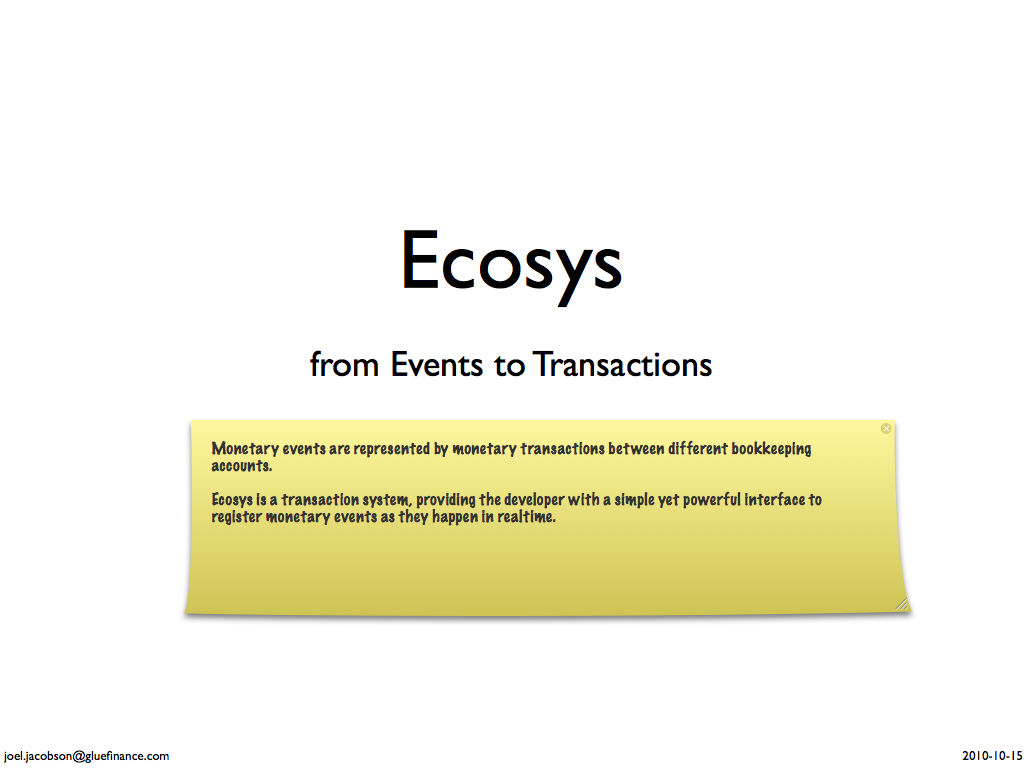
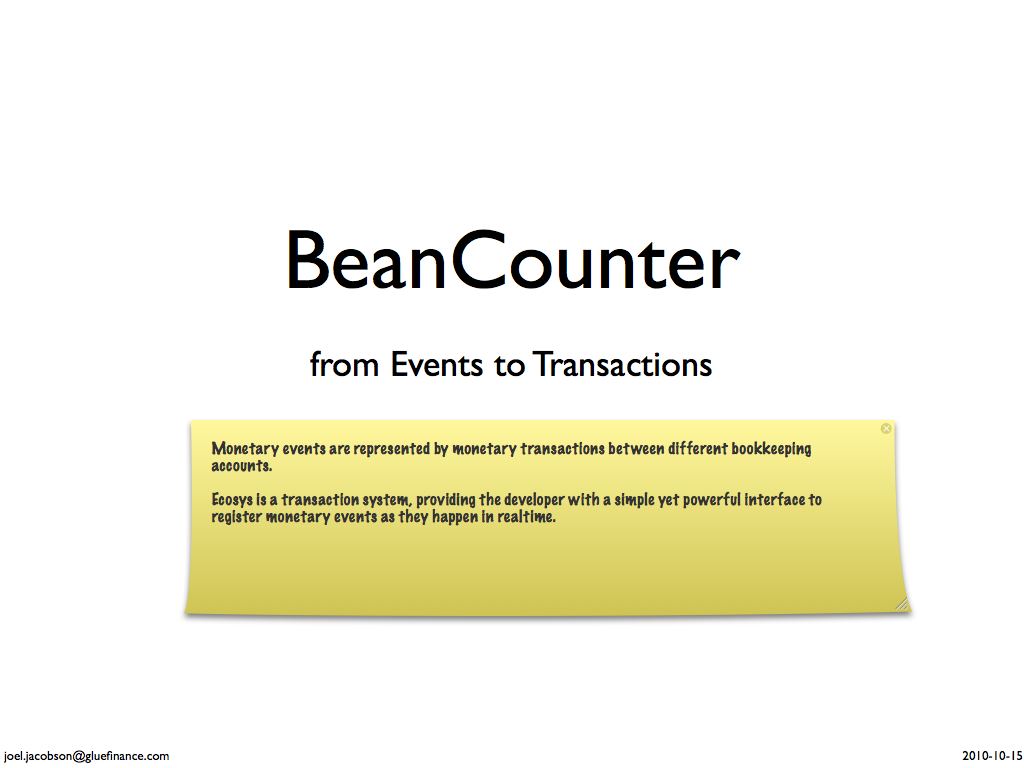
first commit

Changed region(s): [[0.2812, 0.2812, 0.7188, 0.4062]]

diff --git a/introduction.html b/introduction.html
@@ -2,7 +2,7 @@
 <!DOCTYPE html PUBLIC "-//W3C//DTD XHTML 1.0 Transitional//EN" "http://www.w3.org/TR/xhtml1/DTD/xhtml1-transitional.dtd">
 <html>
 <head>
-    <meta name="description" content="joel.jacobson@gluefinance.com 2010-10-15 Ecosys from Events to Transactions  Monetary events are represented by monetary transactions between different bookkeeping accounts.  Ecosys is a transaction system, providing the developer with a simple yet powerful interface to register monetary events as they happen in realtime. joel.jacobson@gluefinance.com 2010-10-15 Bookkeeping is a law requirement for all companies, except for some dodgy countries where it is optional. joel.jacobson@gluefinance.com 2010-10-15 Companies CompanyID (PK)	Name 1	Glue Finance AB Ecosys can handle multiple companies within the same database. joel.jacobson@gluefinance.com 2010-10-15 Ecosys support monetary events in all currencies. joel.jacobson@gluefinance.com 2010-10-15 Currencies CurrencyID (PK)	Currency	Description 1	SEK	Swedish Krona 2	EUR	Euro 3	DKK	Danish Krone 4	NOK	Norwegian Krone 5	ZMK	Zambian Kwacha ......	.....	.... ISO 4217 currency codes are used joel.jacobson@gluefinance.com 2010-10-15 Bookkeeping transactions are made between different “bookkeeping accounts”.  A “bookkeeping account” is something entirely different than a “user account”.  For instance, every “bank account” has its own bookkeeping account. joel.jacobson@gluefinance.com 2010-10-15 Accounts AccountID (PK)	AccountNumber	Name	Description	ModificationDate	CompanyID (FK) 1	1941	BANK_ACCOUNT_1	Bank account	2008-06-15 14:40:30	1 2	1942	BANK_ACCOUNT_2	Bank account	2008-06-15 14:40:30	1 3	1943	BANK_ACCOUNT_3	Bank account	2008-06-14 14:40:30	1 4	2420	CLIENT_BALANCES	Debt to clients	2008-06-14 14:40:30	1 5	3001	DEPOSIT_FEES	Financial revenue	2008-06-14 14:40:30	1 6	3002	WITHDRAWAL_FEES	Financial revenue	2008-06-15 14:40:30	1 7	1901	SUSPENSE_ACCOUNT_BANK_ACCOUNT_1	Suspense account	2008-06-15 14:40:30	1 8	1902	SUSPENSE_ACCOUNT_BANK_ACCOUNT_2	Suspense account	2008-06-15 14:40:30	1 9	1903	SUSPENSE_ACCOUNT_BANK_ACCOUNT_3	Suspense account	2008-06-15 14:40:30	1 Name is the unique name of the bookkeeping account.  AccountNumber is unique and is most commonly a four digit number. Glue Finance is using six digit numbers because we have so many bank accounts.  Transactions can only be made between the accounts defined. To simplify for auditors and people working with bookkeeping, the account numbers used for different purposes follows different standards.  In Sweden, EU-BAS2000 is the most recent standard (“kontoplan” in Swedish).  These standards only provide guidance. If the type of account you need doesn’t exists or if you for any other reason want to use a different account number, you are allowed to do so.   joel.jacobson@gluefinance.com 2010-10-15 AccountBalances contain the current balance for each account in each currency.  If there hasn’t been any transactions in a given currency for an account, there is no record of a balance in AccountBalances. A balance record is insert upon the first transaction in a currency using an account, and then updated.  joel.jacobson@gluefinance.com 2010-10-15 AccountBalances AccountBalanceID (PK)	AccountID (FK)	Currency (FK)	Balance	Num	NumDebit	NumCredit	SumDebit	SumCredit 1	1	SEK	1000	1	1	0	1000	0 2	2	SEK	2000	4	3	1	3500	1500 3	3	EUR	500	1	1	0	500	0 4	4	SEK	-2970	9	5	4	1530	4500 5	4	EUR	-490	2	1	1	10	500 6	5	SEK	-10	4	0	4	0	10 7	5	EUR	-10	1	0	1	0	10 8	6	SEK	-20	1	0	1	0	20 9	7	SEK	0	2	1	1	1000	1000 10	8	SEK	0	8	4	4	5000	5000 11	9	EUR	0	2	1	1	500	500 Balance and Currency is the current balance.  Num is the total number of transactions to/from the account in the currency. NumCredit / NumDebit is the total number of transactions to/from the account in the currency. SumCredit / SumDebit is the sum of transactions.  Credit = from = minus(-) = decrease account balance in the currency Debit = to = plus(+) = increase account balance in the currency  joel.jacobson@gluefinance.com 2010-10-15 Annoying facts debit/credit vs +/- Bean counter language	Actual meaning	Debit / Credit	+ / - “Assets are increased with debits and decreased with credits”	When you put money into a bank account, it is a debit	Debit	+ credit |ˈkredit| verb ( credited , crediting ) [ trans. ] (often be credited)  2 add (an amount of money) to an account : this deferred tax can be credited to the profit and loss account. 	Add = +, right? No, “add” of course means “-” 	Credit	- joel.jacobson@gluefinance.com 2010-10-15 Monetary events are of different types.  Most likely, you will have a limited number of different types of monetary events.  Some of the event types will occur very frequently, like hundreds per second, while others will be very uncommon, like the receiption of an invoice from a supplier. joel.jacobson@gluefinance.com 2010-10-15 EventTypes EventTypeID (PK)	Datestamp 1	2008-06-15 14:40:30 2	2008-06-15 14:40:30 A new EventType is automatically created when a new event with a different mix of “flag keys” are seen for the first time.  Two events might have different “flag values”, but as long as they have the same number of flags with the same names, the EventType is the same.  The “flag keys” determine the EventType, independent of the flag values.  More on flags later on... joel.jacobson@gluefinance.com 2010-10-15 New monetary events are inserted into the Events table.  Events have an amount, currency, different kind of timestamps and a plain hash, where the key/values contain the information needed to what monetary transactions to perform.  The keys of the hash are called Flags. The unique set of Flags determine the EventType.  More on Flags, FlagValues, EventTypes later on... joel.jacobson@gluefinance.com 2010-10-15 Events EventID (PK)	EventTypeID (FK)	Transaction Date	Value Date	Amount	Currency	Processed	Datestamp	ChainID	Undone	BindID 1	1	2010-10-14	2010-10-14	2000	SEK	1	2010-10-13 15:09:02	1	0	1 2	2	2010-10-14	2010-10-14	2000	SEK	1	2010-10-13 15:09:02	1	0	3 3	1	2010-10-14	2010-10-14	1500	SEK	1	2010-10-13 15:22:14	3	0	2 4	2	2010-10-14	2010-10-14	1500	SEK	1	2010-10-13 15:22:14	3	0	4 TransactionDate and ValueDate are identical to Datestamp for most automatic monetary events.  The data type is timestamp with time zone, but it wouldn’t fit in the boxes so it is truncated to date in the example seen.  Processed can be 0 or 1. When using Ecosys inside your database application, you will always process the event in the same transaction block as the event is registered. Therefore, there will be no events with Processed set to 0, since everything is always processed before committing.  In an application when using Ecosys in batch mode, where events needs to be registered first and processed at a later time, Processed will be 0 until they are processed. Glue Finance is not using this mode.  If a created event is related to a previous registered event, they can be chained. The EventID with the lowest value (the oldest event) will be used as ChainID.  Chaining events makes it easy to trace events are see what has happened before and after the event you are interested in.  Chaining also affects the processing of events and read queries to Ecosys. More on that later... joel.jacobson@gluefinance.com 2010-10-15 Flags can be though of as keys in a hash.  Flags have unique names and a unique ID. joel.jacobson@gluefinance.com 2010-10-15 Flags FlagID (PK)	Name	Datestamp 1	order_type	2010-10-14 15:37:02 2	clearing_house	2010-10-14 15:37:02 3	bank_number	2010-10-14 15:37:02 4	account_number	2010-10-14 15:37:02 5	username	2010-10-14 15:37:02 These flags would be sufficient to represent deposits/withdrawals to/from bank accounts. joel.jacobson@gluefinance.com 2010-10-15 A FlagValues is a unique combination of a Flag and a value. joel.jacobson@gluefinance.com 2010-10-15 FlagValues FlagValueID (PK)	FlagID (FK)	Value	Datestamp 1	1	BANK_DEPOSIT	2010-10-14 15:37:02 2	1	BANK_WITHDRAWAL	2010-10-14 15:37:02 3	2	SWEDEN	2010-10-14 15:37:02 4	2	FINLAND	2010-10-14 15:37:02 5	3	83279	2010-10-14 15:37:02 6	3	578954	2010-10-14 15:37:02 7	4	9048832662	2010-10-14 15:37:02 8	4	20038221	2010-10-14 15:37:02 9	5	betsafe	2010-10-14 15:37:02 10	5	betsson	2010-10-14 15:37:02 Each Value for each flag is unique.  For flags, such as “order_id”, where the value is new for each Event, a new FlagValue entry is created for every order. For other flags, where the same value is being used for many events, the FlagValue is reused for such events. joel.jacobson@gluefinance.com 2010-10-15 EventFlags contain the FlagValues of the Event when it was registered.  Once an event has been created, none of its columns can be modified and none of the flag values will be modified, added or deleted.  joel.jacobson@gluefinance.com 2010-10-15 EventFlags EventID (PK)	FlagValueID (PK)	Processed	Datestamp 1	1	1	2010-10-13 15:09:02 2	2	1	2010-10-13 15:09:02 3	1	1	2010-10-13 15:22:14 4	2	1	2010-10-13 15:22:14 Multi-column primary key consisting of EventID and FlagValueID.  Processed has to do with something we will go through later on. Let’s skip that for now. joel.jacobson@gluefinance.com 2010-10-15 EventTypeFlags define the Flags for a given EventType.  The set of Flags are unique for each EventType, i.e., no two EventTypes can share the same mix of Flags. joel.jacobson@gluefinance.com 2010-10-15 EventTypeFlags EventTypeID (PK)	FlagID (PK)	Datestamp 1	1	2010-10-13 15:09:02 1	2	2010-10-13 15:09:02 1	3	2010-10-13 15:09:02 1	4	2010-10-13 15:09:02 2	1	2010-10-13 15:09:02 2	2	2010-10-13 15:09:02 2	3	2010-10-13 15:09:02 2	4	2010-10-13 15:09:02 2	5	2010-10-13 15:09:02 EventTypeID and FlagID is the two-column primary key.  Once an event type has been created, it is never modified or deleted and the flags are never changed. joel.jacobson@gluefinance.com 2010-10-15 A Rule is a unique combination of two accounts, a FromAccount and a ToAccount, between which money are transferred.  If there is no rule allowing transactions between two accounts, no transactions can ever have been made between the accounts.  The list of rules give you a rough picture of what kind of monetary activities goes on in the company. joel.jacobson@gluefinance.com 2010-10-15 Rules RuleID (PK)	FromAccountID	ToAccountID	Datestamp	UseRuleModel 1	7	1	2010-10-13 15:09:02	FALSE 2	1	7	2010-10-13 15:09:02	FALSE 3	8	2	2010-10-13 15:09:02	FALSE 4	2	8	2010-10-13 15:09:02	FALSE 5	9	3	2010-10-13 15:09:02	FALSE 6	3	9	2010-10-13 15:09:02	FALSE 7	4	7	2010-10-13 15:09:02	FALSE 8	4	8	2010-10-13 15:09:02	FALSE 9	4	9	2010-10-13 15:09:02	FALSE 10	7	4	2010-10-13 15:09:02	FALSE 11	8	4	2010-10-13 15:09:02	FALSE 12	9	4	2010-10-13 15:09:02	FALSE 13	5	4	2010-10-13 15:09:02	TRUE 14	6	4	2010-10-13 15:09:02	TRUE FromAccountID and ToAccountID is unique. If UseRuleModel is FALSE, the Amount and Currency of the Event is transferred between the accounts. If it is set to TRUE, the Amount and Currency is calculated using a RuleModel. More on that soon...  joel.jacobson@gluefinance.com 2010-10-15 RuleFunctions defines different algorithms to compute a different Amount and Currency to transfer between accounts than the Event’s Amount/Currency.  The functions usually operate on the Event’s Amount/Currency or any of it flags, but they could theoretically base the calculation on something else.  Glue Finance use RuleFunctions to calculate transaction fees, calculate employment tax on salaries, calculate the VAT part of receipts. joel.jacobson@gluefinance.com 2010-10-15 RuleFunctions RuleFunctionID (PK)	Name	RuleFunctionParamsTemplate 1	Fixed	&lt;Fixed Amount=&quot;10.00&quot; Currency=&quot;SEK&quot; /&gt; 2	Percentage	&lt;Percentage Percentage=&quot;3&quot; Currency=”EUR” Min=”1” Max=”10” /&gt; 3	Exchange	&lt;Exchange&gt;&lt;Fixed Amount=&quot;10.00&quot; Currency=&quot;SEK&quot; /&gt;&lt;/Exchange&gt; 4	FlagValue	&lt;FlagValue AmountFlag=&quot;vat_amount&quot; CurrencyFlag=&quot;vat_currency&quot; /&gt; These are the four rule functions currently being used by Glue Finance.  RuleFunctionParamsTemplate is just an example of what the XML definition of the parameters passed to the function might look like.  joel.jacobson@gluefinance.com 2010-10-15 Rule functions can be written in any SP language.  They must return RECORD.  The OUT params must be _Amount numeric, _Currency char(3). The IN params must be _EventID integer, _ParamXML xml.  joel.jacobson@gluefinance.com 2010-10-15 For a given set of FlagValues present in the Event, for a given Rule, RuleModels define the RuleModel to be used, which is a RuleFunction and XML parameters to the rule function. joel.jacobson@gluefinance.com 2010-10-15 RuleModels RuleModelID (PK)	RuleID (FK)	FlagValueIDs[]	StartDate	RuleFunctionID (FK)	RuleFunctionParams	Datestamp 1	13	[1,3,9]	2010-10-13	1	&lt;Fixed Amount=&quot;2.50&quot; Currency=&quot;SEK&quot; /&gt;	2010-10-12 09:15:02 2	13	[1,4,9]	2010-10-13	1	&lt;Fixed Amount=&quot;10.00&quot; Currency=&quot;EUR&quot; /&gt;	2010-10-12 09:15:02 3	14	[2,3,9]	2010-10-13	2	&lt;Percentage Percentage=&quot;3&quot; /&gt;	2010-10-12 09:15:02 4	14	[2,4,9]	2010-10-13	2	&lt;Percentage Percentage=&quot;2&quot; /&gt;	2010-10-12 09:15:02 5	13	[1,3,10]	2010-10-13	1	&lt;Fixed Amount=&quot;3.00&quot; Currency=&quot;SEK&quot; /&gt;	2010-10-12 09:15:02 6	13	[1,4,10]	2010-10-13	1	&lt;Fixed Amount=&quot;12.00&quot; Currency=&quot;EUR&quot; /&gt;	2010-10-12 09:15:02 7	14	[2,3,10]	2010-10-13	2	&lt;Percentage Percentage=&quot;1.5&quot; /&gt;	2010-10-12 09:15:02 8	14	[2,4,10]	2010-10-13	2	&lt;Percentage Percentage=&quot;4&quot; /&gt;	2010-10-12 09:15:02 For a RuleModel to be applied for a given RuleID, the FlagValueIDs defined must be present in the Event.  RuleFunctionParams are passed to the rule function.  StartDate defines the startdate from when the RuleModel is being used. joel.jacobson@gluefinance.com 2010-10-15 Bindings is the mapping of Flags and Rules.  Bindings is a central component in Ecosys, defining how to process events and what transactions to perform. joel.jacobson@gluefinance.com 2010-10-15 Bindings BindID (PK)	EventTypeID (FK)	Name	Datestamp 1	1	Bank deposit to BANK_ACCOUNT_1	2010-10-12 09:15:02 2	1	Bank deposit to BANK_ACCOUNT_2	2010-10-12 09:15:02 3	1	Bank deposit to BANK_ACCOUNT_3	2010-10-12 09:15:02 4	1	Bank withdrawal from BANK_ACCOUNT_1	2010-10-12 09:15:02 5	1	Bank withdrawal from BANK_ACCOUNT_2	2010-10-12 09:15:02 6	1	Bank withdrawal from BANK_ACCOUNT_3	2010-10-12 09:15:02 7	2	Client deposit to BANK_ACCOUNT_1	2010-10-12 09:15:02 8	2	Client deposit to BANK_ACCOUNT_2	2010-10-12 09:15:02 9	2	Client deposit to BANK_ACCOUNT_3	2010-10-12 09:15:02 10	2	Client withdrawal from BANK_ACCOUNT_1	2010-10-12 09:15:02 11	2	Client withdrawal from BANK_ACCOUNT_2	2010-10-12 09:15:02 12	2	Client withdrawal from BANK_ACCOUNT_3	2010-10-12 09:15:02 Bindings have unique names and are of a given EventType. joel.jacobson@gluefinance.com 2010-10-15 BindFlags define what flags must be present for the Binding to match an Event.  The Binding matching the most number of flag values will be selected.  Only Bindings with the same mix of flags names are candidates. joel.jacobson@gluefinance.com 2010-10-15 BindFlags BindID (PK)	FlagID (PK)	FlagValueID	ModificationDate 1	1	1	2010-10-12 09:15:02 1	2	3	2010-10-12 09:15:02 1	3	5	2010-10-12 09:15:02 1	4	7	2010-10-12 09:15:02 2	1	1	2010-10-12 09:15:02 2	2	3	2010-10-12 09:15:02 2	3	5	2010-10-12 09:15:02 2	4	7	2010-10-12 09:15:02 2	5	9	2010-10-12 09:15:02 FlagValueID can be NULL, meaning any flag value will do, but the flag must be present.  For a given BindID, only the flags in BindFlags must be present, no fewer, no more. The flags determine the EventTypeID, present in the Bindings table as seen before. joel.jacobson@gluefinance.com 2010-10-15 BindRules defines the rules to be performed when a Binding matches an Event. joel.jacobson@gluefinance.com 2010-10-15 BindRules BindID (PK)	RuleID (PK)	ModificationDate 1	1	2010-10-12 09:15:02 2	7	2010-10-12 09:15:02 2	13	2010-10-12 09:15:02 A Bidning must have at least one Rule.  There is no upper limit on the numer of Rules a Binding can have. joel.jacobson@gluefinance.com 2010-10-15 ...and finally, Transactions, the table containing the actual monetary transactions.  Transactions occur between Accounts, due to the Rules defined in Rules and optionally RuleModels, in different Currencies, as a result of the Events created.  Transactions affects AccountBalances, increasing or decreasing the balance of the account in the given currency. joel.jacobson@gluefinance.com 2010-10-15 Transactions Transaction ID (PK)	Event ID (FK)	Rule ID (FK)	Account ID (FK)	Amount	Balance	Sum Credit	Sum Debit	Num	Num Credit	Num Debit	Currency	Account Balances Daily ID	Rule Model ID	RecordDate 1	1	1	7	-1000.00	-1000.00	1000.00	0.00	1	1	0	SEK	1		2010-10-15 10:00:01 2	1	1	1	1000.00	1000.00	0.00	1000.00	1	0	1	SEK	2		2010-10-15 10:00:01 3	2	7	7	1000.00	0.00	1000.00	1000.00	2	1	1	SEK	1		2010-10-15 10:00:01 4	2	7	4	-1000.00	-1000.00	1000.00	0.00	1	1	0	SEK	3		2010-10-15 10:00:01 5	2	13	5	-2.50	-2.50	2.50	0.00	1	1	0	SEK	4	1	2010-10-15 10:00:01 6	2	13	4	2.50	2.50	0.00	2.50	1	0	1	SEK	3	1	2010-10-15 10:00:01 Each Transaction has a unique TransactionID. EventID shows the monetary event which resulted in the Transaction. RuleID shows which rule resulted in the Transaction. Amount/Currency is the transferred amount to/from the Account. If the Amount is less than zero, it is a debit transaction, money is transferred from the account, the account’s balance is decreased. If the Amount is greater than zero, it is a credit transactions, money is transferred to the account, the account’s balance is increased.  SumDebit, SumCredit, Num, NumDebit, NumCredit shows the sum of and number of all debit/credits transactions, at the point in time when the transaction was executed. This statistics are very useful to quickly compute deltas between two points in time. joel.jacobson@gluefinance.com 2010-10-15 When the Event has been processed, it is assigned the BindID for the Binding which matched the event’s flag.  joel.jacobson@gluefinance.com 2010-10-15 The indata to the New_Event function can be an XML document, alternatively the arguments can be passed as function parameters, where the flags are translated into a two dimensional array.  The later variant is obviously faster, since it won’t require parsing of the XML document.  joel.jacobson@gluefinance.com 2010-10-15 New_Event() almost always only writes data to Events, EventFlags and FlagValues. Flags, EventTypeFlags and EventTypes are also used, but only for read queries, except when new event types are invented.  New_Event() joel.jacobson@gluefinance.com 2010-10-15 Process_Events() When the event is processed, transactions are written to Transactions and the balances for each account in each currency is updated in AccountBalances.  Events is also updated, setting Processed to 1.   joel.jacobson@gluefinance.com 2010-10-15 To add accounts and/or bindings, an XML document is written, containing the new accounts (if any) and the definition of the bindings.  Bindings must define a set of Rules and define the flags which must match.  The Value=”” part is optional, if it is not present, any value of the flag will match.  Each binding must define a &lt;Test&gt; unit, which safeguards against typos. If the events in the Test won’t result in the expected balance changes, Ecosys will refuse to import the entire XML document. joel.jacobson@gluefinance.com 2010-10-15 Example of a binding where the flag “username” has no Value attribute. Any value of the flag “username” will match. In the test, the username is set to “test”.  The rule between DEPOSIT_FEES and CLIENT_BALANCES has UseRuleModel set to TRUE, meaning a single RuleModel must match, otherwise the event is invalid and can’t be processed.  In this example, the RuleModel selected depends on the order_type, clearing_house and username."/>
+    <meta name="description" content="joel.jacobson@gluefinance.com 2010-10-15 BeanCounter from Events to Transactions  Monetary events are represented by monetary transactions between different bookkeeping accounts.  Ecosys is a transaction system, providing the developer with a simple yet powerful interface to register monetary events as they happen in realtime. joel.jacobson@gluefinance.com 2010-10-15 Bookkeeping is a law requirement for all companies, except for some dodgy countries where it is optional. joel.jacobson@gluefinance.com 2010-10-15 Companies CompanyID (PK)	Name 1	Glue Finance AB Ecosys can handle multiple companies within the same database. joel.jacobson@gluefinance.com 2010-10-15 Ecosys support monetary events in all currencies. joel.jacobson@gluefinance.com 2010-10-15 Currencies CurrencyID (PK)	Currency	Description 1	SEK	Swedish Krona 2	EUR	Euro 3	DKK	Danish Krone 4	NOK	Norwegian Krone 5	ZMK	Zambian Kwacha ......	.....	.... ISO 4217 currency codes are used joel.jacobson@gluefinance.com 2010-10-15 Bookkeeping transactions are made between different “bookkeeping accounts”.  A “bookkeeping account” is something entirely different than a “user account”.  For instance, every “bank account” has its own bookkeeping account. joel.jacobson@gluefinance.com 2010-10-15 Accounts AccountID (PK)	AccountNumber	Name	Description	ModificationDate	CompanyID (FK) 1	1941	BANK_ACCOUNT_1	Bank account	2008-06-15 14:40:30	1 2	1942	BANK_ACCOUNT_2	Bank account	2008-06-15 14:40:30	1 3	1943	BANK_ACCOUNT_3	Bank account	2008-06-14 14:40:30	1 4	2420	CLIENT_BALANCES	Debt to clients	2008-06-14 14:40:30	1 5	3001	DEPOSIT_FEES	Financial revenue	2008-06-14 14:40:30	1 6	3002	WITHDRAWAL_FEES	Financial revenue	2008-06-15 14:40:30	1 7	1901	SUSPENSE_ACCOUNT_BANK_ACCOUNT_1	Suspense account	2008-06-15 14:40:30	1 8	1902	SUSPENSE_ACCOUNT_BANK_ACCOUNT_2	Suspense account	2008-06-15 14:40:30	1 9	1903	SUSPENSE_ACCOUNT_BANK_ACCOUNT_3	Suspense account	2008-06-15 14:40:30	1 Name is the unique name of the bookkeeping account.  AccountNumber is unique and is most commonly a four digit number. Glue Finance is using six digit numbers because we have so many bank accounts.  Transactions can only be made between the accounts defined. To simplify for auditors and people working with bookkeeping, the account numbers used for different purposes follows different standards.  In Sweden, EU-BAS2000 is the most recent standard (“kontoplan” in Swedish).  These standards only provide guidance. If the type of account you need doesn’t exists or if you for any other reason want to use a different account number, you are allowed to do so.   joel.jacobson@gluefinance.com 2010-10-15 AccountBalances contain the current balance for each account in each currency.  If there hasn’t been any transactions in a given currency for an account, there is no record of a balance in AccountBalances. A balance record is insert upon the first transaction in a currency using an account, and then updated.  joel.jacobson@gluefinance.com 2010-10-15 AccountBalances AccountBalanceID (PK)	AccountID (FK)	Currency (FK)	Balance	Num	NumDebit	NumCredit	SumDebit	SumCredit 1	1	SEK	1000	1	1	0	1000	0 2	2	SEK	2000	4	3	1	3500	1500 3	3	EUR	500	1	1	0	500	0 4	4	SEK	-2970	9	5	4	1530	4500 5	4	EUR	-490	2	1	1	10	500 6	5	SEK	-10	4	0	4	0	10 7	5	EUR	-10	1	0	1	0	10 8	6	SEK	-20	1	0	1	0	20 9	7	SEK	0	2	1	1	1000	1000 10	8	SEK	0	8	4	4	5000	5000 11	9	EUR	0	2	1	1	500	500 Balance and Currency is the current balance.  Num is the total number of transactions to/from the account in the currency. NumCredit / NumDebit is the total number of transactions to/from the account in the currency. SumCredit / SumDebit is the sum of transactions.  Credit = from = minus(-) = decrease account balance in the currency Debit = to = plus(+) = increase account balance in the currency  joel.jacobson@gluefinance.com 2010-10-15 Annoying facts debit/credit vs +/- Bean counter language	Actual meaning	Debit / Credit	+ / - “Assets are increased with debits and decreased with credits”	When you put money into a bank account, it is a debit	Debit	+ credit |ˈkredit| verb ( credited , crediting ) [ trans. ] (often be credited)  2 add (an amount of money) to an account : this deferred tax can be credited to the profit and loss account. 	Add = +, right? No, “add” of course means “-” 	Credit	- joel.jacobson@gluefinance.com 2010-10-15 Monetary events are of different types.  Most likely, you will have a limited number of different types of monetary events.  Some of the event types will occur very frequently, like hundreds per second, while others will be very uncommon, like the receiption of an invoice from a supplier. joel.jacobson@gluefinance.com 2010-10-15 EventTypes EventTypeID (PK)	Datestamp 1	2008-06-15 14:40:30 2	2008-06-15 14:40:30 A new EventType is automatically created when a new event with a different mix of “flag keys” are seen for the first time.  Two events might have different “flag values”, but as long as they have the same number of flags with the same names, the EventType is the same.  The “flag keys” determine the EventType, independent of the flag values.  More on flags later on... joel.jacobson@gluefinance.com 2010-10-15 New monetary events are inserted into the Events table.  Events have an amount, currency, different kind of timestamps and a plain hash, where the key/values contain the information needed to what monetary transactions to perform.  The keys of the hash are called Flags. The unique set of Flags determine the EventType.  More on Flags, FlagValues, EventTypes later on... joel.jacobson@gluefinance.com 2010-10-15 Events EventID (PK)	EventTypeID (FK)	Transaction Date	Value Date	Amount	Currency	Processed	Datestamp	ChainID	Undone	BindID 1	1	2010-10-14	2010-10-14	2000	SEK	1	2010-10-13 15:09:02	1	0	1 2	2	2010-10-14	2010-10-14	2000	SEK	1	2010-10-13 15:09:02	1	0	3 3	1	2010-10-14	2010-10-14	1500	SEK	1	2010-10-13 15:22:14	3	0	2 4	2	2010-10-14	2010-10-14	1500	SEK	1	2010-10-13 15:22:14	3	0	4 TransactionDate and ValueDate are identical to Datestamp for most automatic monetary events.  The data type is timestamp with time zone, but it wouldn’t fit in the boxes so it is truncated to date in the example seen.  Processed can be 0 or 1. When using Ecosys inside your database application, you will always process the event in the same transaction block as the event is registered. Therefore, there will be no events with Processed set to 0, since everything is always processed before committing.  In an application when using Ecosys in batch mode, where events needs to be registered first and processed at a later time, Processed will be 0 until they are processed. Glue Finance is not using this mode.  If a created event is related to a previous registered event, they can be chained. The EventID with the lowest value (the oldest event) will be used as ChainID.  Chaining events makes it easy to trace events are see what has happened before and after the event you are interested in.  Chaining also affects the processing of events and read queries to Ecosys. More on that later... joel.jacobson@gluefinance.com 2010-10-15 Flags can be though of as keys in a hash.  Flags have unique names and a unique ID. joel.jacobson@gluefinance.com 2010-10-15 Flags FlagID (PK)	Name	Datestamp 1	order_type	2010-10-14 15:37:02 2	clearing_house	2010-10-14 15:37:02 3	bank_number	2010-10-14 15:37:02 4	account_number	2010-10-14 15:37:02 5	username	2010-10-14 15:37:02 These flags would be sufficient to represent deposits/withdrawals to/from bank accounts. joel.jacobson@gluefinance.com 2010-10-15 A FlagValues is a unique combination of a Flag and a value. joel.jacobson@gluefinance.com 2010-10-15 FlagValues FlagValueID (PK)	FlagID (FK)	Value	Datestamp 1	1	BANK_DEPOSIT	2010-10-14 15:37:02 2	1	BANK_WITHDRAWAL	2010-10-14 15:37:02 3	2	SWEDEN	2010-10-14 15:37:02 4	2	FINLAND	2010-10-14 15:37:02 5	3	83279	2010-10-14 15:37:02 6	3	578954	2010-10-14 15:37:02 7	4	9048832662	2010-10-14 15:37:02 8	4	20038221	2010-10-14 15:37:02 9	5	betsafe	2010-10-14 15:37:02 10	5	betsson	2010-10-14 15:37:02 Each Value for each flag is unique.  For flags, such as “order_id”, where the value is new for each Event, a new FlagValue entry is created for every order. For other flags, where the same value is being used for many events, the FlagValue is reused for such events. joel.jacobson@gluefinance.com 2010-10-15 EventFlags contain the FlagValues of the Event when it was registered.  Once an event has been created, none of its columns can be modified and none of the flag values will be modified, added or deleted.  joel.jacobson@gluefinance.com 2010-10-15 EventFlags EventID (PK)	FlagValueID (PK)	Processed	Datestamp 1	1	1	2010-10-13 15:09:02 2	2	1	2010-10-13 15:09:02 3	1	1	2010-10-13 15:22:14 4	2	1	2010-10-13 15:22:14 Multi-column primary key consisting of EventID and FlagValueID.  Processed has to do with something we will go through later on. Let’s skip that for now. joel.jacobson@gluefinance.com 2010-10-15 EventTypeFlags define the Flags for a given EventType.  The set of Flags are unique for each EventType, i.e., no two EventTypes can share the same mix of Flags. joel.jacobson@gluefinance.com 2010-10-15 EventTypeFlags EventTypeID (PK)	FlagID (PK)	Datestamp 1	1	2010-10-13 15:09:02 1	2	2010-10-13 15:09:02 1	3	2010-10-13 15:09:02 1	4	2010-10-13 15:09:02 2	1	2010-10-13 15:09:02 2	2	2010-10-13 15:09:02 2	3	2010-10-13 15:09:02 2	4	2010-10-13 15:09:02 2	5	2010-10-13 15:09:02 EventTypeID and FlagID is the two-column primary key.  Once an event type has been created, it is never modified or deleted and the flags are never changed. joel.jacobson@gluefinance.com 2010-10-15 A Rule is a unique combination of two accounts, a FromAccount and a ToAccount, between which money are transferred.  If there is no rule allowing transactions between two accounts, no transactions can ever have been made between the accounts.  The list of rules give you a rough picture of what kind of monetary activities goes on in the company. joel.jacobson@gluefinance.com 2010-10-15 Rules RuleID (PK)	FromAccountID	ToAccountID	Datestamp	UseRuleModel 1	7	1	2010-10-13 15:09:02	FALSE 2	1	7	2010-10-13 15:09:02	FALSE 3	8	2	2010-10-13 15:09:02	FALSE 4	2	8	2010-10-13 15:09:02	FALSE 5	9	3	2010-10-13 15:09:02	FALSE 6	3	9	2010-10-13 15:09:02	FALSE 7	4	7	2010-10-13 15:09:02	FALSE 8	4	8	2010-10-13 15:09:02	FALSE 9	4	9	2010-10-13 15:09:02	FALSE 10	7	4	2010-10-13 15:09:02	FALSE 11	8	4	2010-10-13 15:09:02	FALSE 12	9	4	2010-10-13 15:09:02	FALSE 13	5	4	2010-10-13 15:09:02	TRUE 14	6	4	2010-10-13 15:09:02	TRUE FromAccountID and ToAccountID is unique. If UseRuleModel is FALSE, the Amount and Currency of the Event is transferred between the accounts. If it is set to TRUE, the Amount and Currency is calculated using a RuleModel. More on that soon...  joel.jacobson@gluefinance.com 2010-10-15 RuleFunctions defines different algorithms to compute a different Amount and Currency to transfer between accounts than the Event’s Amount/Currency.  The functions usually operate on the Event’s Amount/Currency or any of it flags, but they could theoretically base the calculation on something else.  Glue Finance use RuleFunctions to calculate transaction fees, calculate employment tax on salaries, calculate the VAT part of receipts. joel.jacobson@gluefinance.com 2010-10-15 RuleFunctions RuleFunctionID (PK)	Name	RuleFunctionParamsTemplate 1	Fixed	&lt;Fixed Amount=&quot;10.00&quot; Currency=&quot;SEK&quot; /&gt; 2	Percentage	&lt;Percentage Percentage=&quot;3&quot; Currency=”EUR” Min=”1” Max=”10” /&gt; 3	Exchange	&lt;Exchange&gt;&lt;Fixed Amount=&quot;10.00&quot; Currency=&quot;SEK&quot; /&gt;&lt;/Exchange&gt; 4	FlagValue	&lt;FlagValue AmountFlag=&quot;vat_amount&quot; CurrencyFlag=&quot;vat_currency&quot; /&gt; These are the four rule functions currently being used by Glue Finance.  RuleFunctionParamsTemplate is just an example of what the XML definition of the parameters passed to the function might look like.  joel.jacobson@gluefinance.com 2010-10-15 Rule functions can be written in any SP language.  They must return RECORD.  The OUT params must be _Amount numeric, _Currency char(3). The IN params must be _EventID integer, _ParamXML xml.  joel.jacobson@gluefinance.com 2010-10-15 For a given set of FlagValues present in the Event, for a given Rule, RuleModels define the RuleModel to be used, which is a RuleFunction and XML parameters to the rule function. joel.jacobson@gluefinance.com 2010-10-15 RuleModels RuleModelID (PK)	RuleID (FK)	FlagValueIDs[]	StartDate	RuleFunctionID (FK)	RuleFunctionParams	Datestamp 1	13	[1,3,9]	2010-10-13	1	&lt;Fixed Amount=&quot;2.50&quot; Currency=&quot;SEK&quot; /&gt;	2010-10-12 09:15:02 2	13	[1,4,9]	2010-10-13	1	&lt;Fixed Amount=&quot;10.00&quot; Currency=&quot;EUR&quot; /&gt;	2010-10-12 09:15:02 3	14	[2,3,9]	2010-10-13	2	&lt;Percentage Percentage=&quot;3&quot; /&gt;	2010-10-12 09:15:02 4	14	[2,4,9]	2010-10-13	2	&lt;Percentage Percentage=&quot;2&quot; /&gt;	2010-10-12 09:15:02 5	13	[1,3,10]	2010-10-13	1	&lt;Fixed Amount=&quot;3.00&quot; Currency=&quot;SEK&quot; /&gt;	2010-10-12 09:15:02 6	13	[1,4,10]	2010-10-13	1	&lt;Fixed Amount=&quot;12.00&quot; Currency=&quot;EUR&quot; /&gt;	2010-10-12 09:15:02 7	14	[2,3,10]	2010-10-13	2	&lt;Percentage Percentage=&quot;1.5&quot; /&gt;	2010-10-12 09:15:02 8	14	[2,4,10]	2010-10-13	2	&lt;Percentage Percentage=&quot;4&quot; /&gt;	2010-10-12 09:15:02 For a RuleModel to be applied for a given RuleID, the FlagValueIDs defined must be present in the Event.  RuleFunctionParams are passed to the rule function.  StartDate defines the startdate from when the RuleModel is being used. joel.jacobson@gluefinance.com 2010-10-15 Bindings is the mapping of Flags and Rules.  Bindings is a central component in Ecosys, defining how to process events and what transactions to perform. joel.jacobson@gluefinance.com 2010-10-15 Bindings BindID (PK)	EventTypeID (FK)	Name	Datestamp 1	1	Bank deposit to BANK_ACCOUNT_1	2010-10-12 09:15:02 2	1	Bank deposit to BANK_ACCOUNT_2	2010-10-12 09:15:02 3	1	Bank deposit to BANK_ACCOUNT_3	2010-10-12 09:15:02 4	1	Bank withdrawal from BANK_ACCOUNT_1	2010-10-12 09:15:02 5	1	Bank withdrawal from BANK_ACCOUNT_2	2010-10-12 09:15:02 6	1	Bank withdrawal from BANK_ACCOUNT_3	2010-10-12 09:15:02 7	2	Client deposit to BANK_ACCOUNT_1	2010-10-12 09:15:02 8	2	Client deposit to BANK_ACCOUNT_2	2010-10-12 09:15:02 9	2	Client deposit to BANK_ACCOUNT_3	2010-10-12 09:15:02 10	2	Client withdrawal from BANK_ACCOUNT_1	2010-10-12 09:15:02 11	2	Client withdrawal from BANK_ACCOUNT_2	2010-10-12 09:15:02 12	2	Client withdrawal from BANK_ACCOUNT_3	2010-10-12 09:15:02 Bindings have unique names and are of a given EventType. joel.jacobson@gluefinance.com 2010-10-15 BindFlags define what flags must be present for the Binding to match an Event.  The Binding matching the most number of flag values will be selected.  Only Bindings with the same mix of flags names are candidates. joel.jacobson@gluefinance.com 2010-10-15 BindFlags BindID (PK)	FlagID (PK)	FlagValueID	ModificationDate 1	1	1	2010-10-12 09:15:02 1	2	3	2010-10-12 09:15:02 1	3	5	2010-10-12 09:15:02 1	4	7	2010-10-12 09:15:02 2	1	1	2010-10-12 09:15:02 2	2	3	2010-10-12 09:15:02 2	3	5	2010-10-12 09:15:02 2	4	7	2010-10-12 09:15:02 2	5	9	2010-10-12 09:15:02 FlagValueID can be NULL, meaning any flag value will do, but the flag must be present.  For a given BindID, only the flags in BindFlags must be present, no fewer, no more. The flags determine the EventTypeID, present in the Bindings table as seen before. joel.jacobson@gluefinance.com 2010-10-15 BindRules defines the rules to be performed when a Binding matches an Event. joel.jacobson@gluefinance.com 2010-10-15 BindRules BindID (PK)	RuleID (PK)	ModificationDate 1	1	2010-10-12 09:15:02 2	7	2010-10-12 09:15:02 2	13	2010-10-12 09:15:02 A Bidning must have at least one Rule.  There is no upper limit on the numer of Rules a Binding can have. joel.jacobson@gluefinance.com 2010-10-15 ...and finally, Transactions, the table containing the actual monetary transactions.  Transactions occur between Accounts, due to the Rules defined in Rules and optionally RuleModels, in different Currencies, as a result of the Events created.  Transactions affects AccountBalances, increasing or decreasing the balance of the account in the given currency. joel.jacobson@gluefinance.com 2010-10-15 Transactions Transaction ID (PK)	Event ID (FK)	Rule ID (FK)	Account ID (FK)	Amount	Balance	Sum Credit	Sum Debit	Num	Num Credit	Num Debit	Currency	Account Balances Daily ID	Rule Model ID	RecordDate 1	1	1	7	-1000.00	-1000.00	1000.00	0.00	1	1	0	SEK	1		2010-10-15 10:00:01 2	1	1	1	1000.00	1000.00	0.00	1000.00	1	0	1	SEK	2		2010-10-15 10:00:01 3	2	7	7	1000.00	0.00	1000.00	1000.00	2	1	1	SEK	1		2010-10-15 10:00:01 4	2	7	4	-1000.00	-1000.00	1000.00	0.00	1	1	0	SEK	3		2010-10-15 10:00:01 5	2	13	5	-2.50	-2.50	2.50	0.00	1	1	0	SEK	4	1	2010-10-15 10:00:01 6	2	13	4	2.50	2.50	0.00	2.50	1	0	1	SEK	3	1	2010-10-15 10:00:01 Each Transaction has a unique TransactionID. EventID shows the monetary event which resulted in the Transaction. RuleID shows which rule resulted in the Transaction. Amount/Currency is the transferred amount to/from the Account. If the Amount is less than zero, it is a debit transaction, money is transferred from the account, the account’s balance is decreased. If the Amount is greater than zero, it is a credit transactions, money is transferred to the account, the account’s balance is increased.  SumDebit, SumCredit, Num, NumDebit, NumCredit shows the sum of and number of all debit/credits transactions, at the point in time when the transaction was executed. This statistics are very useful to quickly compute deltas between two points in time. joel.jacobson@gluefinance.com 2010-10-15 When the Event has been processed, it is assigned the BindID for the Binding which matched the event’s flag.  joel.jacobson@gluefinance.com 2010-10-15 The indata to the New_Event function can be an XML document, alternatively the arguments can be passed as function parameters, where the flags are translated into a two dimensional array.  The later variant is obviously faster, since it won’t require parsing of the XML document.  joel.jacobson@gluefinance.com 2010-10-15 New_Event() almost always only writes data to Events, EventFlags and FlagValues. Flags, EventTypeFlags and EventTypes are also used, but only for read queries, except when new event types are invented.  New_Event() joel.jacobson@gluefinance.com 2010-10-15 Process_Events() When the event is processed, transactions are written to Transactions and the balances for each account in each currency is updated in AccountBalances.  Events is also updated, setting Processed to 1.   joel.jacobson@gluefinance.com 2010-10-15 To add accounts and/or bindings, an XML document is written, containing the new accounts (if any) and the definition of the bindings.  Bindings must define a set of Rules and define the flags which must match.  The Value=”” part is optional, if it is not present, any value of the flag will match.  Each binding must define a &lt;Test&gt; unit, which safeguards against typos. If the events in the Test won’t result in the expected balance changes, Ecosys will refuse to import the entire XML document. joel.jacobson@gluefinance.com 2010-10-15 Example of a binding where the flag “username” has no Value attribute. Any value of the flag “username” will match. In the test, the username is set to “test”.  The rule between DEPOSIT_FEES and CLIENT_BALANCES has UseRuleModel set to TRUE, meaning a single RuleModel must match, otherwise the event is invalid and can’t be processed.  In this example, the RuleModel selected depends on the order_type, clearing_house and username."/>
     <title></title>
     <script type="text/javascript" language="javascript">
 //      <![CDATA[
